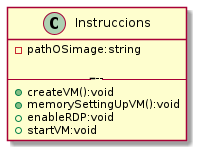
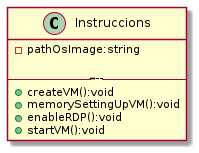
some staff changes

diff --git a/Instructions.hpp b/Instructions.hpp
@@ -2,6 +2,9 @@
 
 class Instructions
 {
+    private:
+    std::string pathOsImage;
+
     public:
         void createVM();
         void memorySettingUpVM();
